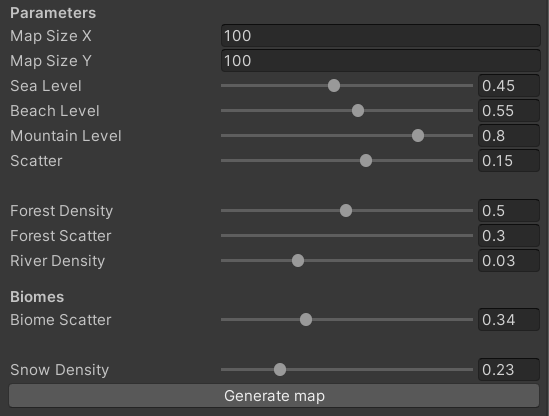
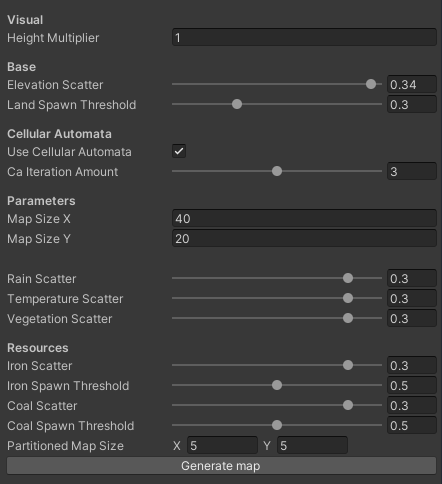
Updated Terrain Generator page

diff --git a/TerrainGenerator.html b/TerrainGenerator.html
@@ -44,18 +44,18 @@
 											
 													<h2>Generation</h2>
 													<p>The program, uses multiple layers of perlin noise. They are layed over each other to create the different biomes.
+														The program, uses multiple layers of perlin noise. They are layed over each other to create the different biomes.
 														<a class="image fit"><img src="images/TerrainGenerator/Code_01.PNG" alt="" /></a>
-														Each noise map, has multiple variables to control the generation of that map. The map generator itself, has multiple conditional 
-														variables, that change how the noise maps should be interpreted. 
+													<p>
+													<p>	<a href=https://github.com/Siccity/xNode target="_blank" class="logo"><strong>XNode</strong></a>
+														 is used to visually map out the transitions of how the biomes are determined. Multiple types of conditions, each with multiple variables offer ways to quickly change the flow of generation.
+														 A biome can quickly be made by creating a new node, attaching it to the biome it should be generated from and then setting up those variables in the previous biome and assigning the new one with a fitting material.
+														<a class="image fit"><img src="images/TerrainGenerator/XNode.PNG" alt="" /></a>
+														The unity editor allows for quick changes to the variables that determine they way evertyhing is generated. From changing whether or not to use cellular automata, to the variables that make up the perlin noise generation.
 													<p></p>
 														<a class="image "><img src="images/TerrainGenerator/TerrainSettings.png" alt="" /></a>
 													</p>
-													<h2>Art</h2>
-													<p>A stylized low poly artstyle that makes it easy to add new types.
-														Tiles are split up in different layers to create more diversity between tiles using the same assets
-														and to allow for combination of biomes like a mountainious forest.
-													</p>
-													<a class="image fit"><img src="images/TerrainGenerator/TerrainArt.png" alt="" /></a>
+
 												</div>
 												<div class="col-6 col-12-small">
 											
@@ -63,6 +63,12 @@
 													<a class="image fit"><img src="images/TerrainGenerator/Map_02.PNG" alt="" /></a>
 													<a class="image fit"><img src="images/TerrainGenerator/Map_03.PNG" alt="" /></a>
 
+													<h2>Art</h2>
+													<p>A stylized low poly artstyle that makes it easy to add new types.
+														Tiles are split up in different layers to create more diversity between tiles using the same assets
+														and to allow for combination of biomes like a mountainious forest.
+													</p>
+													<a class="image fit"><img src="images/TerrainGenerator/TerrainArt.png" alt="" /></a>
 												</div>
 											</div>
 										</section>

diff --git a/index.html b/index.html
@@ -45,7 +45,7 @@
 										I am always interested to widen my horizons and deepen my knowledge. Feel free to contact me with any questions you might have.
 							
 										</p>
-										<a href="https://1drv.ms/b/s!AgCSy4kEvf6XhicblgrTJhpFZx2I?e=x5nYiR" target="_blank" class="button">CV</a>
+										<a href="https://1drv.ms/b/s!AgCSy4kEvf6Xhi1wEG05ErEeM2-H?e=ZNl5Fs" target="_blank" class="button">CV</a>
 										<!-- <ul class="actions">
 											<li><a href="#" class="button big">Learn More</a></li>
 										</ul>
@@ -130,6 +130,7 @@
 
 						</div>
 					</div>
+					
 
 				<!-- Sidebar -->
 					<div id="sidebar">
@@ -146,7 +147,7 @@
 											<span class="opener">Tools</span>
 											<ul>
 												<li><a href="RealmArchitect.html">Realm Architect</a></li>
-												<li><a href="TerrainGenerator">Terrain Generator</a></li>
+												<li><a href="TerrainGenerator.html">Terrain Generator</a></li>
 											</ul>
 										</li>
 										<li>
@@ -167,6 +168,7 @@
 								</nav>
 
 							<!-- Section -->
+							
 								<section>
 									<header class="major">
 										<h2>Currently working on</h2>
@@ -174,10 +176,10 @@
 									<div class="mini-posts">
 										<article>
 											<!-- <a class="image"><img src="images/Library.jpg" alt="" /></a> -->
-											<h4>Dungeon of the cardslinger <a href="https://tikinl.itch.io/dungeon-of-the-cardslinger" target="_blank" class="icon brands fa-itch-io"><span class="label">Itch.io</span></a></h4>
-
-											<a class="image"><img src="images/Logo.png"  /></a>
-											<p>A roguelite dungeon crawler where you build a deck of cards to sling at your enemies!</p>
+											<h4>											<a href="TerrainGenerator.html">Terrain Generator</a></h4>
+											<p>Expanding the amount of biomes and increasing the customization options for generating them.
+												Additionally, adding in cities and animals into the generation, based on how they would naturally evolve in real life. 
+											</p>
 										</article>
 									</div>
 								</section>
